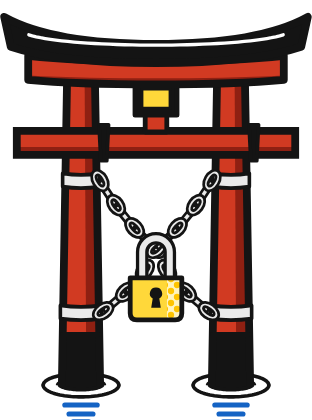
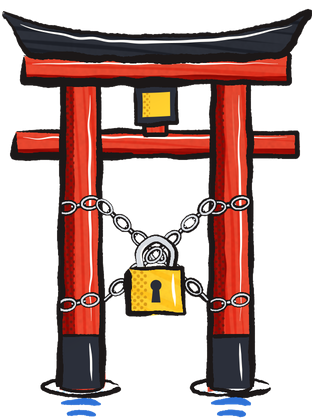
feat(sidetrips): hand-inked islands and torii, five isles

diff --git a/test/side_trips_hub_test.dart b/test/side_trips_hub_test.dart
@@ -229,7 +229,13 @@ void main() {
         DojoRingLayout.nobori,
       ])
         piece.asset,
-      for (final art in [DojoRingLayout.ankiren, DojoRingLayout.building, DojoRingLayout.fuji, DojoRingLayout.lighthouse])
+      for (final art in [
+        DojoRingLayout.ankiren,
+        DojoRingLayout.storehouse,
+        DojoRingLayout.hall,
+        DojoRingLayout.rocks,
+        DojoRingLayout.fort,
+      ])
         ...[art.colour, art.haze],
       AnkirenRulesLayout.memorise,
       AnkirenRulesLayout.flip,
@@ -387,24 +393,26 @@ void main() {
       await openHub(tester, p, usersPhone);
       expect(frontOf(tester), SideTripIsle.ankiren);
       final order = <SideTripIsle>[];
-      for (var i = 0; i < 4; i++) {
+      for (var i = 0; i < 5; i++) {
         await swipe(tester);
         order.add(frontOf(tester));
       }
-      expect(order, [SideTripIsle.building, SideTripIsle.fuji, SideTripIsle.lighthouse, SideTripIsle.ankiren]);
-      expect(turnOf(tester), 4);
+      expect(order,
+          [SideTripIsle.storehouse, SideTripIsle.hall, SideTripIsle.rocks, SideTripIsle.fort, SideTripIsle.ankiren]);
+      expect(turnOf(tester), 5);
 
       order.clear();
-      for (var i = 0; i < 5; i++) {
+      for (var i = 0; i < 6; i++) {
         await swipe(tester, forward: false);
         order.add(frontOf(tester));
       }
       expect(order, [
-        SideTripIsle.lighthouse,
-        SideTripIsle.fuji,
-        SideTripIsle.building,
+        SideTripIsle.fort,
+        SideTripIsle.rocks,
+        SideTripIsle.hall,
+        SideTripIsle.storehouse,
         SideTripIsle.ankiren,
-        SideTripIsle.lighthouse,
+        SideTripIsle.fort,
       ]);
       expect(turnOf(tester), -1);
       expect(tester.takeException(), isNull);
@@ -461,9 +469,9 @@ void main() {
       const ankiren = DojoRingLayout.ankiren;
       Rect? rectOf(String asset) => pictures(asset).evaluate().isEmpty ? null : tester.getRect(pictures(asset));
       final front = rectOf(ankiren.colour)!;
-      final left = rectOf(DojoRingLayout.lighthouse.haze)!;
+      final left = rectOf(DojoRingLayout.fort.haze)!;
       expect(rectOf(ankiren.haze), isNull, reason: 'at rest each island shows once');
-      expect(rectOf(DojoRingLayout.lighthouse.colour), isNull);
+      expect(rectOf(DojoRingLayout.fort.colour), isNull);
 
       // Drags to [turns] steps from [from], and the island's colour and blue
       // pictures then.
@@ -576,7 +584,7 @@ void main() {
       await tester.fling(inHub(find.byType(PageBurst)), const Offset(-200, 0), 1200);
       await tester.pump();
       await tester.pump(const Duration(seconds: 2));
-      expect(frontOf(tester), SideTripIsle.building);
+      expect(frontOf(tester), SideTripIsle.storehouse);
       expect(find.byType(AnkirenScreen), findsNothing);
       await tester.pumpWidget(const SizedBox());
     });
@@ -589,14 +597,15 @@ void main() {
 
       expect(inHub(find.byType(SideTripBody)).hitTestable(), findsOneWidget);
       expect(inHub(find.byType(SideTripSoonEntry)).hitTestable(), findsNothing);
-      expect(tags(), 1, reason: 'the building site on the right');
+      expect(tags(), 1, reason: 'the storehouse on the right');
       expect(pictures(DojoRingLayout.nobori.asset), findsOneWidget, reason: "暗記練's banner is its label");
       expect(pictures(DojoSceneLayout.toriiOpen.asset), findsOneWidget);
 
       for (final (front, labels, banner) in [
-        (SideTripIsle.building, 2, false),
-        (SideTripIsle.fuji, 2, false),
-        (SideTripIsle.lighthouse, 1, true),
+        (SideTripIsle.storehouse, 2, false),
+        (SideTripIsle.hall, 2, false),
+        (SideTripIsle.rocks, 2, false),
+        (SideTripIsle.fort, 1, true),
       ]) {
         await swipe(tester);
         expect(frontOf(tester), front);
@@ -637,7 +646,7 @@ void main() {
       await openHub(tester, p, usersPhone);
       await swipe(tester);
       await swipe(tester);
-      expect(frontOf(tester), SideTripIsle.fuji);
+      expect(frontOf(tester), SideTripIsle.hall);
       await tester.tap(find.descendant(of: find.byType(MangaTabBar), matching: find.text(s.home)));
       await tester.pump();
       await tester.pump(const Duration(milliseconds: 300));
@@ -664,9 +673,9 @@ void main() {
       await tester.pump();
       await tester.pump(const Duration(seconds: 2));
       await tester.pump();
-      expect(frontOf(tester), SideTripIsle.building);
-      expect(find.semantics.byLabel(s.isleName(SideTripIsle.building)), findsOne);
-      act(SideTripIsle.building, s.sideTripsPreviousIsland);
+      expect(frontOf(tester), SideTripIsle.storehouse);
+      expect(find.semantics.byLabel(s.isleName(SideTripIsle.storehouse)), findsOne);
+      act(SideTripIsle.storehouse, s.sideTripsPreviousIsland);
       await tester.pump();
       await tester.pump(const Duration(seconds: 2));
       await tester.pump();
@@ -674,8 +683,8 @@ void main() {
       await tester.pump();
       await tester.pump(const Duration(seconds: 2));
       await tester.pump();
-      expect(frontOf(tester), SideTripIsle.lighthouse);
-      expect(find.semantics.byLabel(s.isleName(SideTripIsle.lighthouse)), findsOne);
+      expect(frontOf(tester), SideTripIsle.fort);
+      expect(find.semantics.byLabel(s.isleName(SideTripIsle.fort)), findsOne);
       await tester.pumpWidget(const SizedBox());
       semantics.dispose();
     });
@@ -701,7 +710,7 @@ void main() {
       expect(tester.getRect(inHub(find.byType(SideTripBody))), body, reason: 'fading where it rests');
       expect(drift(), 0);
       await tester.pump(DojoRingMotion.crossfade);
-      expect(frontOf(tester), SideTripIsle.building);
+      expect(frontOf(tester), SideTripIsle.storehouse);
       expect(inHub(find.byType(SideTripSoonEntry)).hitTestable(), findsOneWidget);
       expect(drift(), 0, reason: 'the boat stays still');
       expect(tester.takeException(), isNull);
@@ -842,7 +851,7 @@ void main() {
       await tester.runAsync(() => remember(p, journeyOrder.skip(_lockedCards).take(11)));
       await openHub(tester, p, usersPhone);
       await swipe(tester);
-      expect(frontOf(tester), SideTripIsle.building);
+      expect(frontOf(tester), SideTripIsle.storehouse);
       await tester.runAsync(() => remember(p, journeyOrder.skip(_lockedCards + 11).take(2)));
       await tester.pump();
       await tester.pump(DojoUnlockMotion.unlock);
@@ -934,7 +943,7 @@ void main() {
         await tester.pump();
         await tester.pump(const Duration(seconds: 3));
       }
-      for (var step = 1; step <= 3; step++) {
+      for (var step = 1; step < SideTripRing.isles.length; step++) {
         await swipe(tester);
         await tester.pump(const Duration(seconds: 3));
         await precacheArt(tester);

diff --git a/test/side_trips_test.dart b/test/side_trips_test.dart
@@ -51,21 +51,23 @@ void main() {
 
   group('ring', () {
     test('turns forward and back forever, one island a step, the right one coming to the front', () {
-      expect([for (var t = -5; t <= 5; t++) SideTripRing.frontAt(t)], [
-        SideTripIsle.lighthouse,
+      expect([for (var t = -6; t <= 6; t++) SideTripRing.frontAt(t)], [
+        SideTripIsle.fort,
         SideTripIsle.ankiren,
-        SideTripIsle.building,
-        SideTripIsle.fuji,
-        SideTripIsle.lighthouse,
+        SideTripIsle.storehouse,
+        SideTripIsle.hall,
+        SideTripIsle.rocks,
+        SideTripIsle.fort,
         SideTripIsle.ankiren,
-        SideTripIsle.building,
-        SideTripIsle.fuji,
-        SideTripIsle.lighthouse,
+        SideTripIsle.storehouse,
+        SideTripIsle.hall,
+        SideTripIsle.rocks,
+        SideTripIsle.fort,
         SideTripIsle.ankiren,
-        SideTripIsle.building,
+        SideTripIsle.storehouse,
       ]);
       expect(SideTripIsle.ankiren.trip, SideTrip.ankiren);
-      expect([for (final isle in SideTripRing.isles) isle.comingSoon], [false, true, true, true]);
+      expect([for (final isle in SideTripRing.isles) isle.comingSoon], [false, true, true, true, true]);
     });
 
     test('each step moves every island on a slot: right to front, front to left, then round the back to the right',
@@ -74,9 +76,10 @@ void main() {
       Map<SideTripIsle, int> at(int turn) => {for (final i in SideTripRing.isles) i: SideTripRing.slotOf(i, turn)};
       expect(at(0), {
         SideTripIsle.ankiren: 0,
-        SideTripIsle.building: 1,
-        SideTripIsle.fuji: 2,
-        SideTripIsle.lighthouse: 3,
+        SideTripIsle.storehouse: 1,
+        SideTripIsle.hall: 2,
+        SideTripIsle.rocks: 3,
+        SideTripIsle.fort: 4,
       });
       for (var turn = -6; turn < 6; turn++) {
         for (final isle in SideTripRing.isles) {
@@ -84,9 +87,9 @@ void main() {
           expect(SideTripRing.slotOf(isle, turn + 1), slot == 0 ? n - 1 : slot - 1, reason: '$isle at $turn');
         }
       }
-      expect(SideTripRing.place(SideTripIsle.building, 0.25), 0.75, reason: 'part of the way to the front');
-      expect(SideTripRing.place(SideTripIsle.ankiren, 0.25), 3.75, reason: 'part of the way to the left');
-      expect(SideTripRing.place(SideTripIsle.ankiren, -4.5), 0.5);
+      expect(SideTripRing.place(SideTripIsle.storehouse, 0.25), 0.75, reason: 'part of the way to the front');
+      expect(SideTripRing.place(SideTripIsle.ankiren, 0.25), n - 0.25, reason: 'part of the way to the left');
+      expect(SideTripRing.place(SideTripIsle.ankiren, -n - 0.5), 0.5, reason: 'a lap and a half step back');
     });
   });
 

diff --git a/lib/config/design/side_trips.dart b/lib/config/design/side_trips.dart
@@ -184,7 +184,9 @@ class RingArmSpec {
 }
 
 /// One island of the ring: its picture in [colour] and the same drawing in
-/// blue [haze], both filling the island canvas.
+/// blue [haze], both 3× renders filling the island canvas. Unlike the
+/// scene's pictures they are lossy, as hand-painted texture runs large
+/// lossless.
 @immutable
 class RingIsleArt {
   const RingIsleArt(this.colour, this.haze);
@@ -217,7 +219,9 @@ abstract final class DojoRingLayout {
     RingSlotSpec(
         foot: Offset(334, 248), scale: 0.36, haze: 0, label: 1, tag: _over, tagAlign: Alignment.bottomCenter, depth: 2),
     RingSlotSpec(
-        foot: Offset(208, 200), scale: 0.26, haze: 1, label: 0, tag: _over, tagAlign: Alignment.bottomCenter, depth: 0),
+        foot: Offset(242, 204), scale: 0.25, haze: 1, label: 0, tag: _over, tagAlign: Alignment.bottomCenter, depth: 0.5),
+    RingSlotSpec(
+        foot: Offset(131, 201), scale: 0.21, haze: 1, label: 0, tag: _over, tagAlign: Alignment.bottomCenter, depth: 0),
     RingSlotSpec(
         foot: Offset(30, 201), scale: 0.16, haze: 1, label: 0, tag: _over, tagAlign: Alignment.bottomCenter, depth: 1),
   ];
@@ -236,12 +240,13 @@ abstract final class DojoRingLayout {
   );
 
   static const ankiren = RingIsleArt('$_dir/ankiren.webp', '$_dir/ankiren-haze.webp');
-  static const building = RingIsleArt('$_dir/construction.webp', '$_dir/construction-haze.webp');
-  static const fuji = RingIsleArt('$_dir/fuji.webp', '$_dir/fuji-haze.webp');
-  static const lighthouse = RingIsleArt('$_dir/lighthouse.webp', '$_dir/lighthouse-haze.webp');
+  static const storehouse = RingIsleArt('$_dir/storehouse.webp', '$_dir/storehouse-haze.webp');
+  static const hall = RingIsleArt('$_dir/hall.webp', '$_dir/hall-haze.webp');
+  static const rocks = RingIsleArt('$_dir/rocks.webp', '$_dir/rocks-haze.webp');
+  static const fort = RingIsleArt('$_dir/fort.webp', '$_dir/fort-haze.webp');
 
   /// 暗記練's banner on its island's grass, once it is open: its label.
-  static const nobori = ScenePiece('assets/graphics/sidetrips/ankiren/nobori.webp', Rect.fromLTWH(277.2, 56, 30, 100));
+  static const nobori = ScenePiece('assets/graphics/sidetrips/ankiren/nobori.webp', Rect.fromLTWH(238, 73, 30, 100));
 }
 
 /// How the ring of islands turns (`SideTripsScreen`).

diff --git a/lib/ui/side_trips/dojo_scene.dart b/lib/ui/side_trips/dojo_scene.dart
@@ -254,9 +254,10 @@ class _DojoSceneState extends State<DojoScene> with SingleTickerProviderStateMix
 /// [isle]'s pictures.
 RingIsleArt _artOf(SideTripIsle isle) => switch (isle) {
       SideTripIsle.ankiren => DojoRingLayout.ankiren,
-      SideTripIsle.building => DojoRingLayout.building,
-      SideTripIsle.fuji => DojoRingLayout.fuji,
-      SideTripIsle.lighthouse => DojoRingLayout.lighthouse,
+      SideTripIsle.storehouse => DojoRingLayout.storehouse,
+      SideTripIsle.hall => DojoRingLayout.hall,
+      SideTripIsle.rocks => DojoRingLayout.rocks,
+      SideTripIsle.fort => DojoRingLayout.fort,
     };
 
 /// Tobi's boat on the dojo scene, filling the same box as [DojoScene]:

diff --git a/lib/l10n/side_trip_strings.dart b/lib/l10n/side_trip_strings.dart
@@ -27,9 +27,10 @@ extension SideTripStrings on S {
   /// [isle]'s name, for screen readers.
   String isleName(SideTripIsle isle) => switch (isle) {
         SideTripIsle.ankiren => t('ankirenName'),
-        SideTripIsle.building => t('sideTripsIsleBuilding'),
-        SideTripIsle.fuji => t('sideTripsIsleFuji'),
-        SideTripIsle.lighthouse => t('sideTripsIsleLighthouse'),
+        SideTripIsle.storehouse => t('sideTripsIsleStorehouse'),
+        SideTripIsle.hall => t('sideTripsIsleHall'),
+        SideTripIsle.rocks => t('sideTripsIsleRocks'),
+        SideTripIsle.fort => t('sideTripsIsleFort'),
       };
 
   /// The screen-reader actions that turn the ring of islands.

diff --git a/lib/domain/side_trips.dart b/lib/domain/side_trips.dart
@@ -20,9 +20,10 @@ enum SideTrip {
 /// trip's, then those still being built.
 enum SideTripIsle {
   ankiren(SideTrip.ankiren),
-  building(null),
-  fuji(null),
-  lighthouse(null);
+  storehouse(null),
+  hall(null),
+  rocks(null),
+  fort(null);
 
   const SideTripIsle(this.trip);
 
